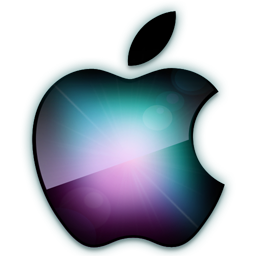
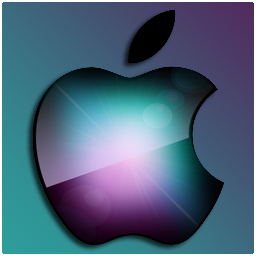
[plugin.video.apple.movie.trailers.lite] - Version: 2.0.1
-fixed: source xml's were not updating (thanks ould)
-changed: made xbox compatible*
-changed: icon.png, made xbmc compatible

*requires patches to xbmc4xbox

diff --git a/addons/plugin.video.apple.movie.trailers.lite/resources/lib/xbox.py b/addons/plugin.video.apple.movie.trailers.lite/resources/lib/xbox.py
@@ -1,0 +1,99 @@
+""" xbox compatibilty module """
+
+import sys
+import os
+import xbmc
+import re
+
+def _append_module_paths():
+    # main modules path
+    modulepath = xbmc.translatePath( "special://home/scripts/.modules" )
+    # get modules
+    modules = os.listdir( modulepath )
+    # loop thru and append the lib folder to path
+    for module in modules:
+        # make full path
+        fullpath = os.path.join( modulepath, module, "lib" )
+        # only add modules with a lib folder
+        # FIXME: will this be the only format? (module.name/lib)
+        if ( os.path.isdir( fullpath ) ):
+            sys.path.append( fullpath )
+# FIXME: do we want to add this directly in xbmc4xbox to match xbmc (this doesn't work properly)
+_append_module_paths()
+
+# path of main addon
+_path = os.getcwd()
+# check if we're at root folder of addon
+if ( not os.path.isfile( os.path.join( _path, "addon.xml" ) ) ):
+    # we're not at root, assume resources/lib/
+    _path = os.path.dirname( os.path.dirname( os.getcwd() ) )
+
+# language method
+_L_ = xbmc.Language( _path ).getLocalizedString
+# settings method, try catch necessary as not all scripts have settings
+try:
+    _S_ = xbmc.Settings( _path )
+except:
+    _S_ = None
+
+
+class XBMCADDON:
+    """
+        xbmcaddon module class
+    """
+    # dictionary to hold addon info
+    INFO = {}
+
+    class Addon:
+        """
+            Class to emulate xbmcaddon.Addon methods.
+        """
+        def __init__( self, id ):
+            # TODO: do we want to use id for anything?
+            # parse addon.xml and set all addon info
+            self._set_addon_info( id )
+
+        def _set_addon_info( self, id ):
+            # get source
+            xml = open( os.path.join( _path, "addon.xml" ), "r" ).read()
+            # regex's
+            addon_regex = re.compile( "<addon id=\"([^\"]+)\".+?name=\"([^\"]+)\".+?version=\"([^\"]+)\".+?provider-name=\"([^\"]+)\".*?>", re.DOTALL )
+            metadata_type_regex = re.compile( "<extension point=\"([^\"]+)\".+?library=\"([^\"]+)\".*?>", re.DOTALL )
+            metadata_summary_regex = re.compile( "<summary>([^<]*)</summary>", re.DOTALL )
+            metadata_disclaimer_regex = re.compile( "<disclaimer>([^<]*)</disclaimer>", re.DOTALL )
+            metadata_description_regex = re.compile( "<description>([^<]*)</description>", re.DOTALL )
+            # set addon.xml info into dictionary
+            XBMCADDON.INFO[ "id" ], XBMCADDON.INFO[ "name" ], XBMCADDON.INFO[ "version" ], XBMCADDON.INFO[ "author" ] = addon_regex.search( xml ).groups( 1 )
+            XBMCADDON.INFO[ "type" ] = metadata_type_regex.search( xml ).group( 1 )
+            XBMCADDON.INFO[ "summary" ] = metadata_summary_regex.search( xml ).group( 1 )
+            XBMCADDON.INFO[ "disclaimer" ] = metadata_disclaimer_regex.search( xml ).group( 1 )
+            XBMCADDON.INFO[ "description" ] = metadata_description_regex.search( xml ).group( 1 )
+            # set other info
+            XBMCADDON.INFO[ "path" ] = _path
+            XBMCADDON.INFO[ "icon" ] = os.path.join( _path, "default.tbn" )
+            XBMCADDON.INFO[ "fanart" ] = os.path.join( _path, "fanart.jpg" )
+            XBMCADDON.INFO[ "changelog" ] = os.path.join( _path, "changelog.txt" )
+            if ( _path.startswith( "Q:\\plugins" ) and not _path.startswith( "Q:\\plugins\\weather" ) ):
+                XBMCADDON.INFO[ "profile" ] = "special://profile/plugin_data/%s/%s" % ( os.path.basename( os.path.dirname( _path ) ), os.path.basename( _path ), )
+            else:
+                XBMCADDON.INFO[ "profile" ] = "special://profile/script_data/%s" % ( os.path.basename( _path ), )
+
+        @staticmethod
+        def getLocalizedString( id ):
+            return _L_( id )
+
+        @staticmethod
+        def getSetting( id ):
+            return _S_.getSetting( id )
+
+        @staticmethod
+        def setSetting( id, value ):
+            _S_.setSetting( id, value )
+
+        @staticmethod
+        def openSettings():
+            _S_.openSettings()
+
+        @staticmethod
+        def getAddonInfo( id ):
+            return XBMCADDON.INFO[ id.lower() ]

diff --git a/addons/plugin.video.apple.movie.trailers.lite/resources/lib/trailers.py b/addons/plugin.video.apple.movie.trailers.lite/resources/lib/trailers.py
@@ -8,14 +8,19 @@ import os
 import xbmc
 import xbmcgui
 import xbmcplugin
-import xbmcaddon
+
+try:
+    import xbmcaddon
+except:
+    # get xbox compatibility module
+    from xbox import *
+    xbmcaddon = XBMCADDON()
 
 import time
 import re
 import urllib
 import datetime
 from xml.sax.saxutils import unescape
-
 from utils import LOG, get_legal_filepath
 from MediaWindow import MediaWindow, DirectoryItem
 
@@ -346,7 +351,7 @@ class Main:
         try:
             xmlSource = []
             # grab all xml sources
-            for source in ( "current.xml", "current_480p.xml", "current_720p.xml", ):
+            for source in ( "newest.xml", "newest_480p.xml", "newest_720p.xml", ):
                 # set path and url
                 base_path = os.path.join( self.BASE_CURRENT_SOURCE_PATH, source )
                 base_url = self.BASE_CURRENT_URL % ( source, )

diff --git a/addons/plugin.video.apple.movie.trailers.lite/resources/lib/showtimes.py b/addons/plugin.video.apple.movie.trailers.lite/resources/lib/showtimes.py
@@ -10,6 +10,13 @@ import os
 import xbmc
 import xbmcgui
 
+try:
+    import xbmcaddon
+except:
+    # get xbox compatibility module
+    from xbox import *
+    xbmcaddon = XBMCADDON()
+
 from urllib import unquote_plus
 
 
@@ -67,7 +74,7 @@ class GUI( xbmcgui.WindowXMLDialog ):
         # set our trailer duration
         self.movie_showtimes[ "duration" ] = xbmc.getInfoLabel( "ListItem.Duration" )
         # set cast list
-        self.movie_showtimes[ "cast" ] = unicode( " / ".join( xbmc.getInfoLabel( "ListItem.Cast" ).split( "\n" ) ), "utf-8" )
+        self.movie_showtimes[ "cast" ] = unicode( " / ".join( xbmc.getInfoLabel( "ListItem.Cast" ).splitlines() ), "utf-8" )
 
     def _show_trailer_info( self ):
         # set initial apple trailer info

diff --git a/addons/plugin.video.apple.movie.trailers.lite/resources/lib/download.py b/addons/plugin.video.apple.movie.trailers.lite/resources/lib/download.py
@@ -12,9 +12,15 @@ pDialog.update( 0 )
 
 import os
 import xbmc
-import xbmcaddon
-import urllib
 
+try:
+    import xbmcaddon
+except:
+    # get xbox compatibility module
+    from xbox import *
+    xbmcaddon = XBMCADDON()
+
+import urllib
 from utils import get_filesystem, get_legal_filepath, LOG
 
 
@@ -56,7 +62,7 @@ class Main:
     # set our trailer duration
     g_duration = xbmc.getInfoLabel( "ListItem.Duration" )
     # set cast list
-    g_cast = unicode( " / ".join( xbmc.getInfoLabel( "ListItem.Cast" ).split( "\n" ) ), "utf-8" )
+    g_cast = unicode( " / ".join( xbmc.getInfoLabel( "ListItem.Cast" ).splitlines() ), "utf-8" )
     # set our year
     g_year = 0
     if ( xbmc.getInfoLabel( "ListItem.Year" ) ):

diff --git a/addons/plugin.video.apple.movie.trailers.lite/addon.py b/addons/plugin.video.apple.movie.trailers.lite/addon.py
@@ -40,7 +40,12 @@ if ( __name__ == "__main__" ):
     elif ( sys.argv[ 2 ].startswith( "?settings=" ) ):
         import os
         import xbmc
-        import xbmcaddon
+        try:
+            import xbmcaddon
+        except:
+            # get xbox compatibility module
+            from resources.lib.xbox import *
+            xbmcaddon = XBMCADDON()
         # open settings
         xbmcaddon.Addon( id=os.path.basename( os.getcwd() ) ).openSettings()
         # refresh listing in case settings changed
